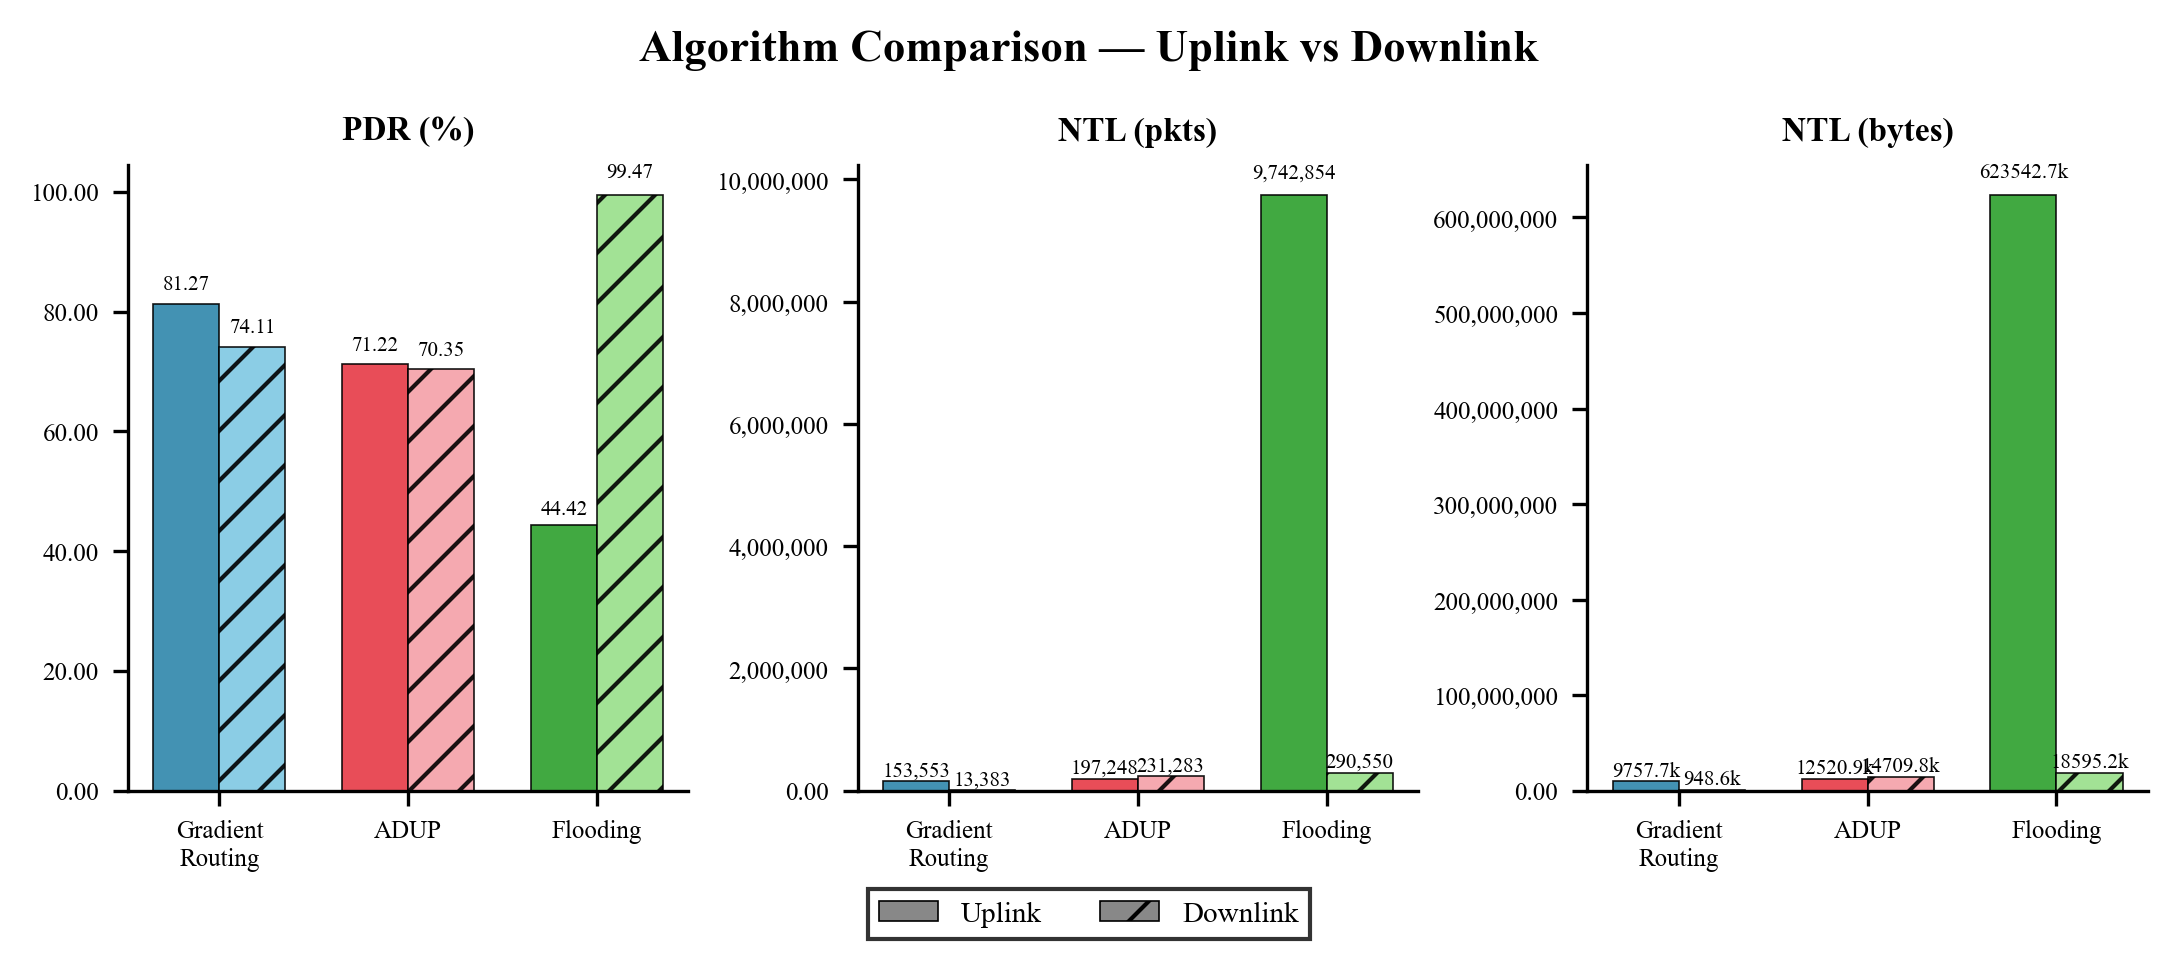
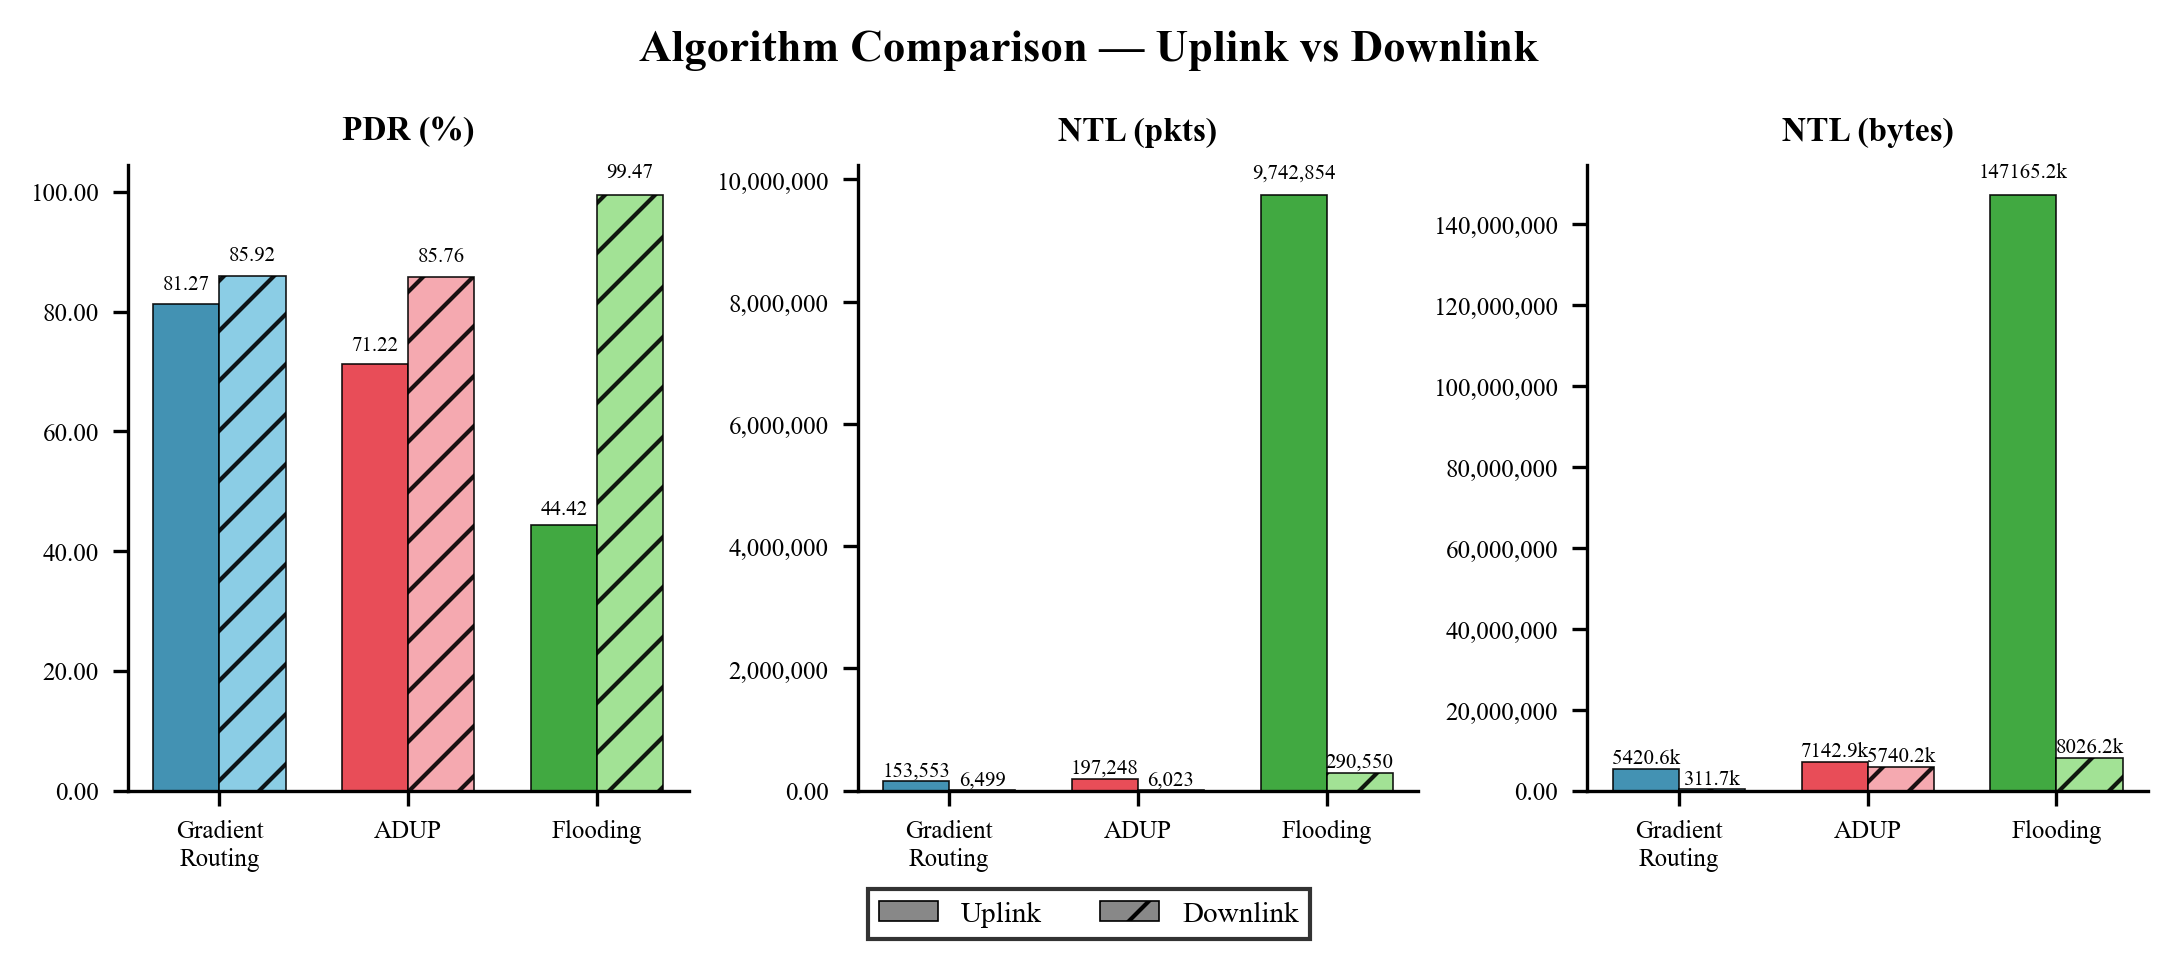
update

diff --git a/protocols/ADUP.py b/protocols/ADUP.py
@@ -75,6 +75,26 @@ class ADUPDownlinkPacket(DataPacket):
         self.route:        List[int] = route   # ordered list of node IDs to traverse
         self.route_offset: int       = 0       # points to current entry in route
 
+    def clone(self) -> "ADUPDownlinkPacket":
+        """Override clone() để copy thêm route và route_offset."""
+        obj = object.__new__(ADUPDownlinkPacket)
+        obj.id            = self.id
+        obj.source_id     = self.source_id
+        obj.dest_id       = self.dest_id
+        obj.size_bytes    = self.size_bytes
+        obj.ptype         = self.ptype
+        obj.creation_time = self.creation_time
+        obj.hop_count     = self.hop_count
+        obj.last_hop      = self.last_hop
+        obj.drop_reason   = self.drop_reason
+        obj.tx_timestamps = list(self.tx_timestamps)
+        obj.ttl           = self.ttl
+        obj.payload       = self.payload
+        obj.path          = list(self.path)
+        obj.route         = list(self.route)
+        obj.route_offset  = self.route_offset
+        return obj
+
 
 # ---------------------------------------------------------------------------
 # ADUP Rank constants  (§3.1.3)
@@ -200,20 +220,23 @@ class ADUPRouting:
 
     def start_downlink_forwarding(self) -> None:
         """Downlink mode: control messages build parent sets + next-hop table,
-        then sink sends downlink packets.
-
-        Nodes cần gửi uplink data để sink build next-hop table (§3.2).
-        Dùng _uplink_data_process (DATA_INTERVAL=1s) thay vì heartbeat (5s)
-        để table được populate nhanh hơn.
-        """
+        then sink sends downlink packets."""
         for node in self.network.nodes:
             if node.is_alive():
-                self.env.process(self._ctrl_process(node))
-                if not node.is_sink:
-                    self.env.process(self._uplink_data_process(node))
+                st = self._state[node.id]
+                # Thêm start delay để tránh burst collision lúc t=0
+                self.env.process(self._delayed_ctrl_and_uplink(node, st.start_delay))
         sink = self.network.sink
         if sink.is_alive():
             self.env.process(self._sink_downlink_process(sink))
+
+    def _delayed_ctrl_and_uplink(self, node: SensorNode, delay: float):
+        """Wrap ctrl + uplink với start delay để tránh burst.
+        Uplink trong downlink mode không count vào PDR metrics."""
+        yield self.env.timeout(delay)
+        self.env.process(self._ctrl_process(node))
+        if not node.is_sink:
+            self.env.process(self._uplink_data_process(node, count_as_created=False))
 
     def _heartbeat_for_table_process(self, node: SensorNode):
         """Send periodic uplink packets so sink can build next-hop table."""
@@ -250,18 +273,22 @@ class ADUPRouting:
             self._purge_parent_set(node)
             self._send_ctrl(node)
 
-    def _uplink_data_process(self, node: SensorNode):
-        """Generate uplink DATA packets once rank is valid (§3.2)."""
+    def _uplink_data_process(self, node: SensorNode,
+                             count_as_created: bool = True):
+        """Generate uplink DATA packets once rank is valid (§3.2).
+
+        count_as_created=False khi chạy trong downlink mode để không
+        làm nhiễu mẫu số PDR của downlink.
+        """
         cfg = self.settings
         st  = self._state[node.id]
-        # Wait until rank is valid (has at least one parent)
         while st.rank >= 255 or not st.parent_set:
             yield self.env.timeout(BASE_INTERVAL_S)
 
         while node.is_alive():
             yield self.env.timeout(cfg.DATA_INTERVAL)
             for _ in range(cfg.DATA_RATE):
-                self._generate_uplink(node)
+                self._generate_uplink(node, count_as_created=count_as_created)
 
     def _sink_downlink_process(self, sink: SensorNode):
         """Sink gửi downlink packet đến từng node theo round-robin (§3.3).
@@ -418,7 +445,8 @@ class ADUPRouting:
         )
         return self.network.get_node_by_id(best_id)
 
-    def _generate_uplink(self, node: SensorNode) -> None:
+    def _generate_uplink(self, node: SensorNode,
+                         count_as_created: bool = True) -> None:
         best = self._get_best_parent(node)
         if best is None:
             return
@@ -429,14 +457,16 @@ class ADUPRouting:
             creation_time=self.env.now,
             next_hop_id=best.id,
         )
-        self.metrics.record_created(pkt.id, self.env.now)
-        self.env.process(self._forward_uplink(pkt, node))
+        if count_as_created:
+            self.metrics.record_created(pkt.id, self.env.now)
+        self.env.process(self._forward_uplink(pkt, node, count_metrics=count_as_created))
 
-    def _forward_uplink(self, packet: ADUPUplinkPacket, src: SensorNode):
+    def _forward_uplink(self, packet: ADUPUplinkPacket, src: SensorNode,
+                        count_metrics: bool = True):
         """Hop-by-hop uplink forwarding.
 
-        next_hop_id trong packet chỉ được set 1 lần tại source (§3.2):
-        sink dùng giá trị này để biết hop đầu tiên từ source → không overwrite.
+        count_metrics=False khi packet chỉ dùng để build next-hop table
+        (downlink mode) — không tính vào PDR numerator/denominator.
         """
         node = src
         cfg  = self.settings
@@ -444,16 +474,12 @@ class ADUPRouting:
         while True:
             best = self._get_best_parent(node)
             if best is None:
-                packet.mark_dropped(DropReason.NO_NEXT_HOP)
-                self.metrics.record_drop("no_next_hop")
-                node.packets_dropped_no_route += 1
-                packet.drop()
+                if count_metrics:
+                    packet.mark_dropped(DropReason.NO_NEXT_HOP)
+                    self.metrics.record_drop("no_next_hop")
+                    node.packets_dropped_no_route += 1
+                    packet.drop()
                 return
-
-            # Chỉ set next_hop_id tại source — các hop trung gian KHÔNG overwrite.
-            # Sink cần biết: "source_id đã gửi đến node nào trước tiên?"
-            # Đó chính là best parent của SOURCE tại thời điểm tạo packet.
-            # (đã được set trong _generate_uplink, giữ nguyên suốt hành trình)
 
             delivered = False
             timeout_s = cfg.SAR_RETRY_TIMEOUT_MS / 1000.0
@@ -462,7 +488,8 @@ class ADUPRouting:
                 if attempt > 0:
                     yield self.env.timeout(timeout_s * (cfg.SAR_RETRY_BACKOFF ** attempt))
                 yield node.transmit_to(best, packet, self.channel)
-                self.metrics.record_transmitted(is_hello=False)
+                if count_metrics:
+                    self.metrics.record_transmitted(is_hello=False)
                 if packet.drop_reason is None:
                     delivered = True
                     break
@@ -472,26 +499,29 @@ class ADUPRouting:
                     packet.drop_reason = None
 
             if not delivered:
-                if packet.drop_reason is None:
-                    packet.mark_dropped(DropReason.MAX_RETRIES)
-                self.metrics.record_drop(
-                    packet.drop_reason.value if packet.drop_reason else "other"
-                )
-                node.packets_dropped_retries += 1
-                packet.drop()
+                if count_metrics:
+                    if packet.drop_reason is None:
+                        packet.mark_dropped(DropReason.MAX_RETRIES)
+                    self.metrics.record_drop(
+                        packet.drop_reason.value if packet.drop_reason else "other"
+                    )
+                    node.packets_dropped_retries += 1
+                    packet.drop()
                 return
 
             packet.on_forward(node.id)
             if packet.is_ttl_expired():
-                packet.mark_dropped(DropReason.TTL_EXPIRED)
-                self.metrics.record_drop("ttl_expired")
-                packet.drop()
+                if count_metrics:
+                    packet.mark_dropped(DropReason.TTL_EXPIRED)
+                    self.metrics.record_drop("ttl_expired")
+                    packet.drop()
                 return
 
             if best.is_sink:
-                self.metrics.record_delivered(
-                    packet.id, self.env.now, hop_count=packet.hop_count
-                )
+                if count_metrics:
+                    self.metrics.record_delivered(
+                        packet.id, self.env.now, hop_count=packet.hop_count
+                    )
                 return
 
             node = best

diff --git a/protocols/gradient.py b/protocols/gradient.py
@@ -171,18 +171,22 @@ class GradientRouting:
             self._maybe_send_heartbeat(node)
 
     def _sink_downlink_process(self, sink: SensorNode):
-        """Sink sends Backprop Data packets once backprop routes are learned (§4.1, §4.3.2)."""
+        """Sink sends Backprop Data packets once backprop routes are learned (§4.1, §4.3.2).
+        Round-robin: 1 gói/interval để công bằng với ADUP."""
         cfg = self.settings
-        # Allow beacons + heartbeats to populate backprop table
         convergence_wait = cfg.START_DELAY_MAX_S + cfg.BEACON_PERIOD_S * 2
         yield self.env.timeout(convergence_wait)
 
+        dest_nodes = [n for n in self.network.nodes if not n.is_sink]
+        idx = 0
+
         while sink.is_alive():
             yield self.env.timeout(cfg.DATA_INTERVAL)
-            for node in self.network.nodes:
-                if node.is_sink or not node.is_alive():
+            for _ in range(len(dest_nodes)):
+                node = dest_nodes[idx % len(dest_nodes)]
+                idx += 1
+                if not node.is_alive():
                     continue
-                # Only send if backprop route exists for this destination
                 has_route = any(
                     node.id in bset or node.id == nb_id
                     for nb_id, (_, _, _, bset) in self._ftable[sink.id].items()
@@ -197,6 +201,7 @@ class GradientRouting:
                 )
                 self.metrics.record_created(pkt.id, self.env.now)
                 self.env.process(self._forward_downlink(pkt, sink))
+                break  # 1 gói mỗi interval
 
     # =========================================================================
     # Forwarding table management

diff --git a/protocols/flooding.py b/protocols/flooding.py
@@ -62,7 +62,8 @@ class FloodingNode:
         self._uplink_dup[key] = self.env.now
 
     def _is_dl_dup(self, pkt_id: int) -> bool:
-        key = (0, pkt_id)
+        sink_id = self.routing.network.sink.id
+        key = (sink_id, pkt_id)
         if key not in self._downlink_dup:
             return False
         if self.env.now - self._downlink_dup[key] > self._dup_timeout:
@@ -71,10 +72,13 @@ class FloodingNode:
         return True
 
     def _remember_dl(self, pkt_id: int) -> None:
-        key = (0, pkt_id)
+        sink_id = self.routing.network.sink.id
+        key = (sink_id, pkt_id)
         if len(self._downlink_dup) >= self._dup_cache_size:
             del self._downlink_dup[next(iter(self._downlink_dup))]
-        self._downlink_dup[key] = self.env.now    # -----------------------------------------------------------------------
+        self._downlink_dup[key] = self.env.now
+
+    # -----------------------------------------------------------------------
     # Broadcast
     # -----------------------------------------------------------------------
 

diff --git a/models/node.py b/models/node.py
@@ -181,7 +181,6 @@ class SensorNode:
         sender.last_tx_time = self.env.now
         sender.consume_energy(self.settings.ENERGY_PER_TX)
         sender.packets_sent += 1
-        sender.bytes_transmitted += packet.size_bytes
         packet.tx_timestamps.append(self.env.now)
 
         # Đếm TX attempt tại đây — sau khi chiếm kênh thực sự
@@ -190,8 +189,6 @@ class SensorNode:
 
         # 4. Rician LUT channel decision — đếm concurrent TX trong vùng lân cận
         dist = sender.distance_to(self)
-        # Đếm số neighbor của receiver đang transmit đồng thời
-        # (trong window CCA_MIN_SPACING_MS) — đây là số interferer thực tế
         now = self.env.now
         cca_window = self.settings.CCA_MIN_SPACING_MS / 1000.0
         concurrent = sum(
@@ -204,6 +201,9 @@ class SensorNode:
             if isinstance(packet, (DataPacket, BeaconPacket)):
                 packet.mark_dropped(DropReason.RSSI_TOO_LOW)
             return
+
+        # bytes_transmitted chỉ tăng khi channel thành công (không đếm drop)
+        sender.bytes_transmitted += packet.size_bytes
 
         # 5. RX buffer check (beacons are small — always fits, skip check)
         if isinstance(packet, DataPacket):
@@ -244,7 +244,6 @@ class SensorNode:
             self.packets_received += 1
             if self._on_receive:
                 self._on_receive(self, pkt)
-
     # Protocol callback — set by routing layer after construction
     _on_receive = None   # type: ignore[assignment]
 

diff --git a/models/packet.py b/models/packet.py
@@ -47,6 +47,11 @@ class DropReason(Enum):
 class Packet:
     _id_counter = itertools.count(1)
 
+    @classmethod
+    def reset_id_counter(cls) -> None:
+        """Reset ID counter trước mỗi simulation run để IDs nhất quán."""
+        cls._id_counter = itertools.count(1)
+
     def __init__(
         self,
         source_id:     int,

diff --git a/main.py b/main.py
@@ -15,6 +15,7 @@ import simpy
 import config.settings as settings
 from models.channel import RicianChannelModel
 from models.network import Network
+from models.packet import Packet
 from protocols.gradient import GradientRouting
 from protocols.flooding import FloodingRouting
 from protocols.ADUP import ADUPRouting